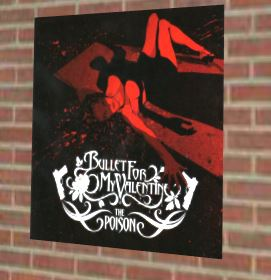
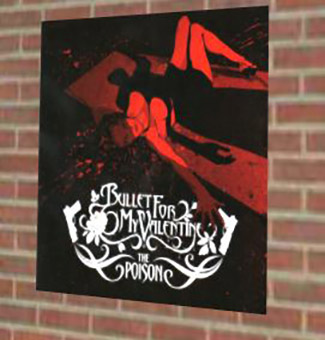
Added images and resized for readme

diff --git a/README.md b/README.md
@@ -2,7 +2,7 @@
 
 ## Moon House
 
-![Main Screenshot](https://via.placeholder.com/150)
+![Main Screenshot](./readMeAssets/main.jpg)
 
 ### Interactions/Animations
 
